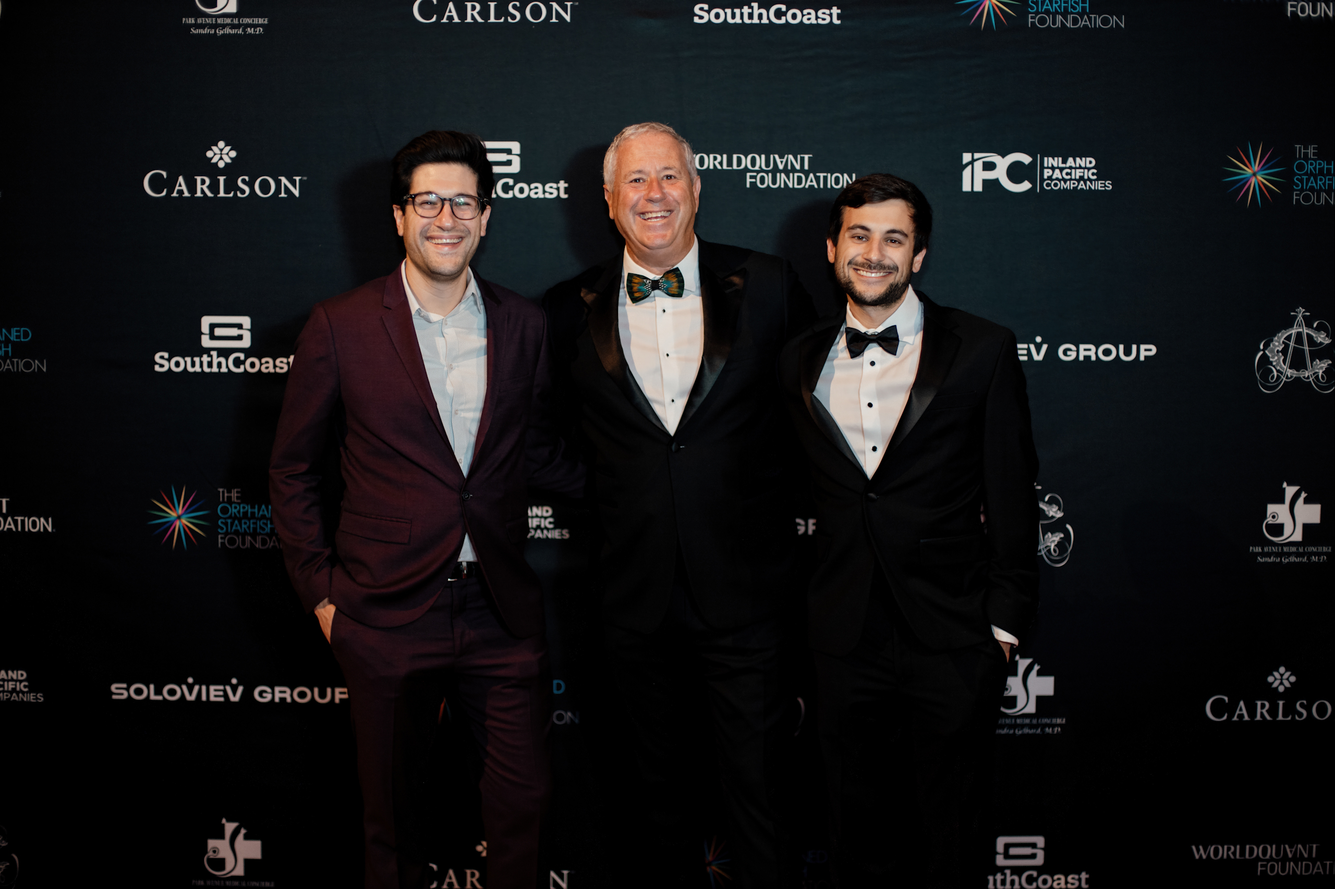
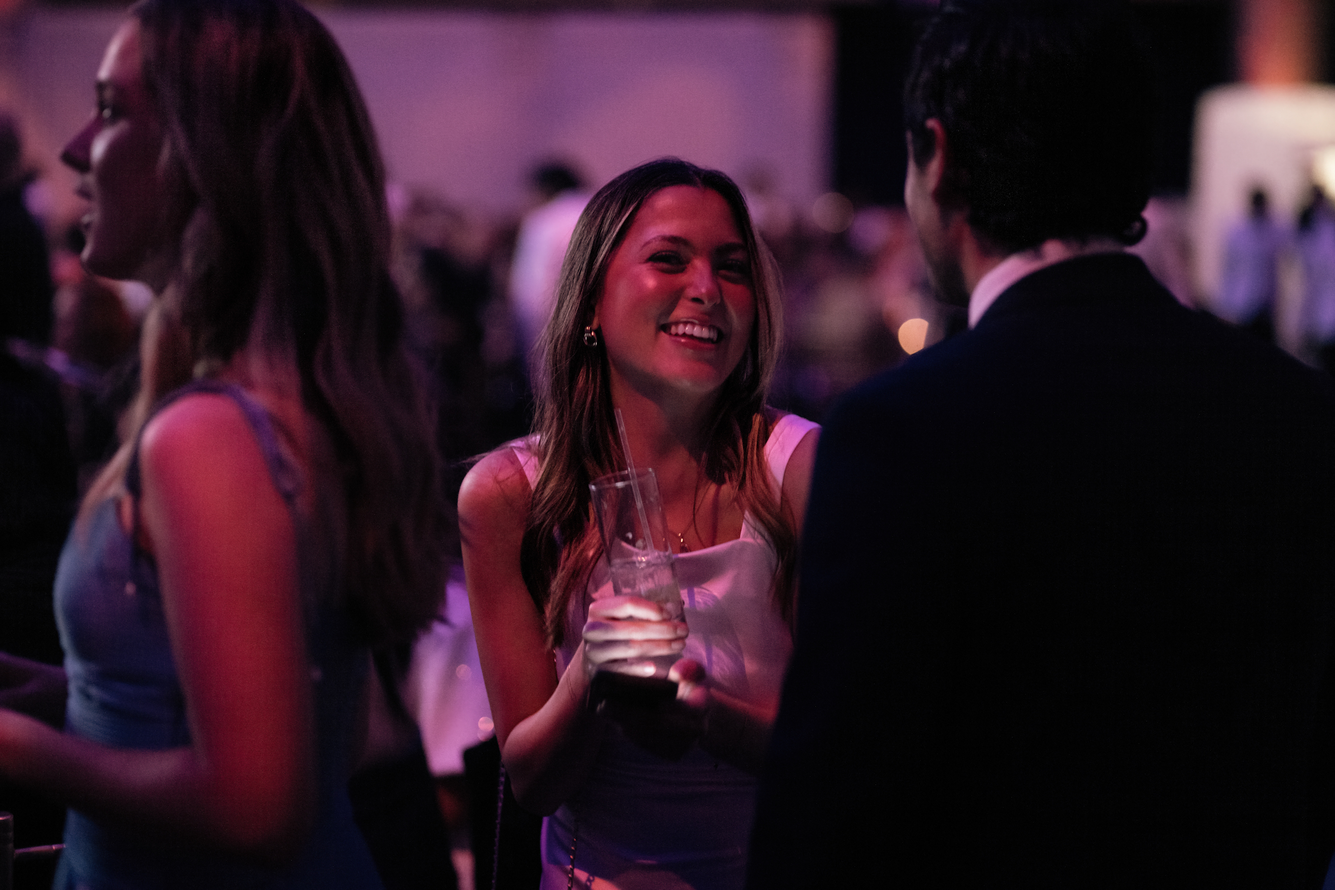
Use party photo in Orphan Starfish gallery

diff --git a/index.html b/index.html
@@ -113,7 +113,7 @@
         <figure class="reveal"><img loading="lazy" src="assets/images/osf-03.jpg" alt="Guests gathered during the Orphan Starfish Foundation event" width="1440" height="1620"></figure>
         <figure class="reveal"><img loading="lazy" src="assets/images/osf-04.jpg" alt="Guests connecting on the dance floor at the Orphan Starfish Foundation event" width="1440" height="1620"></figure>
         <figure class="reveal"><img loading="lazy" src="assets/images/osf-05.jpg" alt="Live music at the Orphan Starfish Foundation event" width="1440" height="1620"></figure>
-        <figure class="reveal"><img loading="lazy" src="assets/images/osf-06.jpg" alt="Guests arriving for the Orphan Starfish Foundation event" width="1440" height="1620"></figure>
+        <figure class="reveal"><img loading="lazy" src="assets/images/osf-06.jpg?v=2" alt="Guest enjoying the Orphan Starfish Foundation party" width="1440" height="960"></figure>
       </div>
     </section>
 
